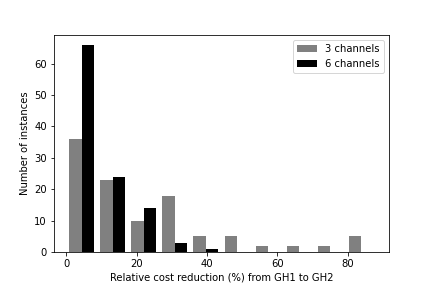
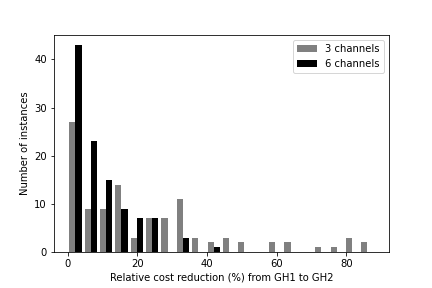
analysis

diff --git a/plots/heur_analysis.py b/plots/heur_analysis.py
@@ -24,10 +24,10 @@ d_GH = pandas.concat([d_3_GH,d_6_GH])
 
 
 mannwhitneyutest_result_GH = scipy.stats.mannwhitneyu(d_GH['GH1 UB'],d_GH['GH2 UB'],alternative='greater')
-mannwhitneyutest_result_RH = scipy.stats.mannwhitneyu(d_RH[' H-inf value'],d_RH[' H-inf-reg value '],alternative='greater')
+mannwhitneyutest_result_RH = scipy.stats.mannwhitneyu(d_RH['RH1 UB'],d_RH['RH2 UB'],alternative='greater')
 
 wilcoxontest_result_GH = scipy.stats.wilcoxon(d_GH['GH1 UB'],d_GH['GH2 UB'],alternative='greater')
-wilcoxontest_result_RH = scipy.stats.wilcoxon(d_RH[' H-inf value'],d_RH[' H-inf-reg value '],alternative='greater')
+wilcoxontest_result_RH = scipy.stats.wilcoxon(d_RH['RH1 UB'],d_RH['RH2 UB'],alternative='greater')
 
 
 
@@ -35,18 +35,18 @@ wilcoxontest_result_RH = scipy.stats.wilcoxon(d_RH[' H-inf value'],d_RH[' H-inf-
 
 
 #mannwhitneyutest_result__greedy_vs_relax = scipy.stats.mannwhitneyu(d_GH['GH2 UB'],d_RH[' H-inf-reg value '],alternative='greater')
-mannwhitneyutest_result__relax_vs_greedy = scipy.stats.mannwhitneyu(d_RH[' H-inf-reg value '],d_GH['GH2 UB'],alternative='greater')
+mannwhitneyutest_result__relax_vs_greedy = scipy.stats.mannwhitneyu(d_RH['RH2 UB'],d_GH['GH2 UB'],alternative='greater')
 
 #wilcoxontest_result__greedy_vs_relax = scipy.stats.wilcoxon(d_GH['GH2 UB'],d_RH[' H-inf-reg value '],alternative='greater')
-wilcoxontest_result__relax_vs_greedy = scipy.stats.wilcoxon(d_RH[' H-inf-reg value '],d_GH['GH2 UB'],alternative='greater')
+wilcoxontest_result__relax_vs_greedy = scipy.stats.wilcoxon(d_RH['RH2 UB'],d_GH['GH2 UB'],alternative='greater')
 
 
 
 
-def comparison1v1(serie1,serie2,name_title,name_file):
+def comparison1v1UB(serie1,serie2,name_title,name_file):
     print("Descriptive statistics")
     mean = np.mean(100*(serie1-serie2)/serie1)
-    print("Mean cost reduction = {0}%".format(mean))
+    print("Mean gap = {0}%".format(mean))
     mannwhitneyutest_result = scipy.stats.mannwhitneyu(serie1,serie2,alternative='greater')
     wilcoxontest_result = scipy.stats.wilcoxon(serie1,serie2,alternative='greater')
     print(mannwhitneyutest_result,wilcoxontest_result)
@@ -54,9 +54,7 @@ def comparison1v1(serie1,serie2,name_title,name_file):
     serie2_3channel, serie2_6channel = serie2[:108], serie2[108:]
     savings_3channel = 100*(serie1_3channel-serie2_3channel)/serie1_3channel
     savings_6channel = 100*(serie1_6channel-serie2_6channel)/serie1_6channel
-    plt.hist([savings_3channel,savings_6channel], bins=10,color=["grey",'black'],label = ["3 channels","6 channels"])
-    # hx3, hy3, _ = plt.hist((savings_3channel), bins=10,color="grey",label = "3 channels")
-    # hx6, hy6, _ = plt.hist((savings_6channel), bins=10,color="black",label = "6 channels")
+    plt.hist([savings_3channel,savings_6channel], bins=20,color=["grey",'black'],label = ["3 channels","6 channels"])
     plt.xlabel(name_title)
     plt.ylabel("Number of instances")
     plt.legend()
@@ -65,5 +63,13 @@ def comparison1v1(serie1,serie2,name_title,name_file):
     
     
 
-comparison1v1(d_GH['GH1 UB'],d_GH['GH2 UB'],"Relative cost reduction (%) from GH1 to GH2","greedy_cost_comparison")
-comparison1v1(d_GH[' H-inf value'],d_GH[' H-inf value'],"Relative cost reduction (%) from GH1 to GH2","greedy_cost_comparison")
+print("UB Greedy")
+comparison1v1UB(d_GH['GH1 UB'],d_GH['GH2 UB'],"Relative cost reduction (%) from GH1 to GH2","greedy_cost_comparison")
+print("Time Greedy")
+#comparison1v1(d_GH['GH1 time']+0.001,d_GH['GH2 time'],-1,"Relative time augmentation (%) from GH1 to GH2","greedy_time_comparison")
+print("UB Relax-based-heur")
+comparison1v1UB(d_RH['RH1 UB'],d_RH['RH2 UB'],"Relative cost reduction (%) from RH1 to RH2","relax_based_heur_cost_comparison")
+print("Time Relax-based-heur")
+#comparison1v1(d_RH['RH1 time']+0.001,d_RH['RH2 time'],-1,"Relative time augmentation (%) from GH1 to GH2","relax_based_heur_time_comparison")
+print('UB greedy vs relax')
+comparison1v1UB(d_RH['RH2 UB'],d_GH['GH2 UB'],"Relative cost reduction (%) from RH2 to GH2","greedy_vs_relax_cost_comparison")

diff --git a/main_heur_inf.cpp b/main_heur_inf.cpp
@@ -25,7 +25,7 @@ int main(int argc, char**argv){
     output_file.open ("output_heur.csv");
     output_file<<"Channels number ;"<<color_number<<"\n";
     output_file <<"Perturbation : "<<perturbation<<"\n";
-    output_file << "Instance name ;|I| ;|J|; H-inf value; H-inf time ; H-inf-reg value ; H-inf-reg time \n";
+    output_file << "Instance name ;|I| ;|J|;RH1 UB;RH1 time;RH2 UB;RH2 time\n";
 
     // Parameters
     const float globalTL = 3600;

diff --git a/main_greedy.cpp b/main_greedy.cpp
@@ -92,7 +92,7 @@ int main(int argc, char**argv){
     ofstream output_file;
     output_file.open ("output_greedy.csv");
     output_file << "Channels number:"<<color_number<<"\n";
-    output_file << "Instance name ;|I| ;|J|;GH1 UB; GH1 time;GH2 UB; GH2 time \n";
+    output_file << "Instance name ;|I| ;|J|;GH1 UB;GH1 time;GH2 UB;GH2 time\n";
     std::ifstream ifs (list, std::ifstream::in);
    	char buffer [100];
     ifs.getline(buffer,100);
